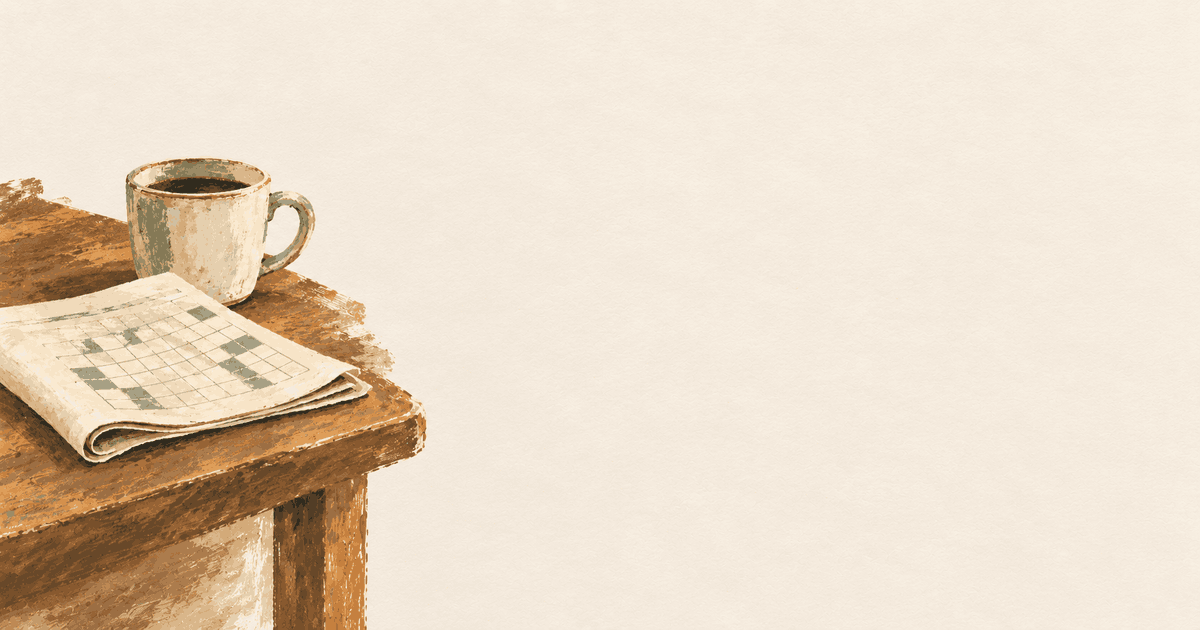
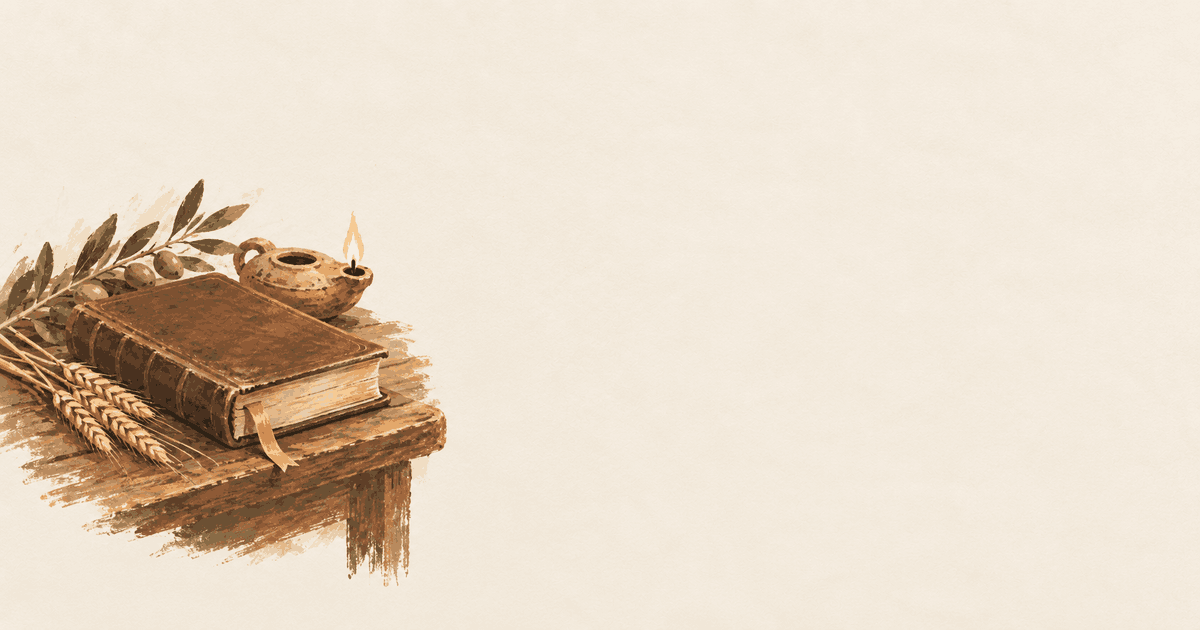
Bible theme: dedicated painted cover + OG card

Changed region(s): [[0.0, 0.2413, 0.37, 1.0]]

diff --git a/lib/images.ts b/lib/images.ts
@@ -98,8 +98,6 @@ const THEME_MOTIF: Record<string, string> = {
 };
 
 /** Theme slug → 1200×900 painted cover (with a 640w variant).
- *  Bible currently reuses a calm desk/book stand-in at public/images/themes/bible.webp
- *  until the dedicated cover from design/BIBLE-IMAGE-REQUEST.md lands — swap that path only.
  */
 export function themeArt(slug: string, themeName: string): Art {
   const src = `/images/themes/${slug}.webp`;
